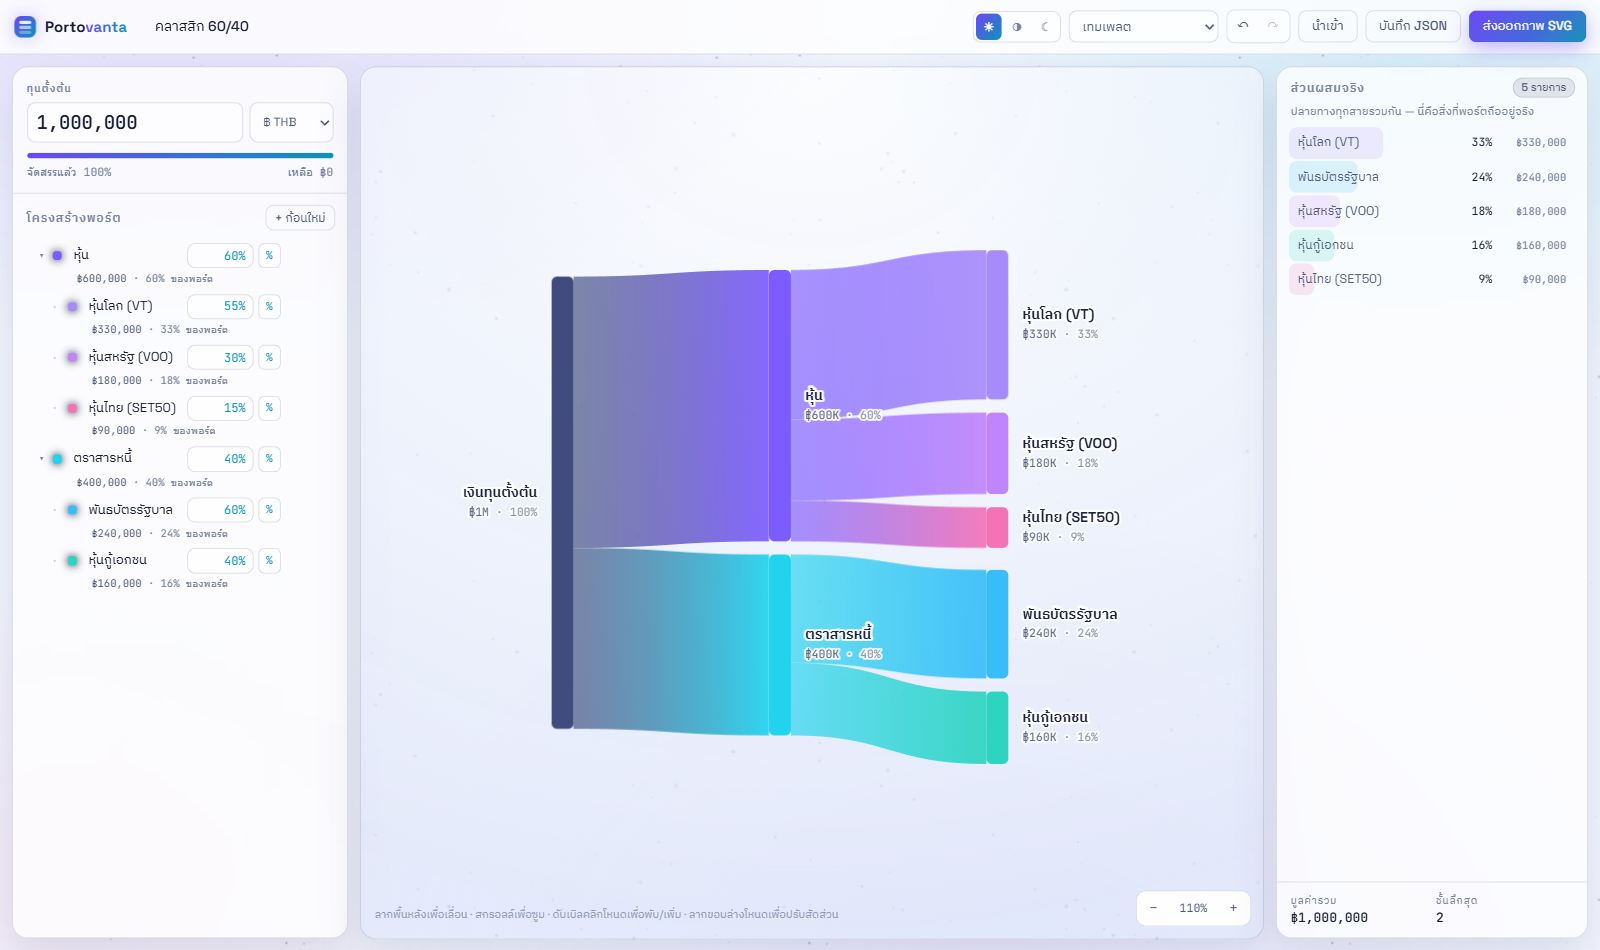
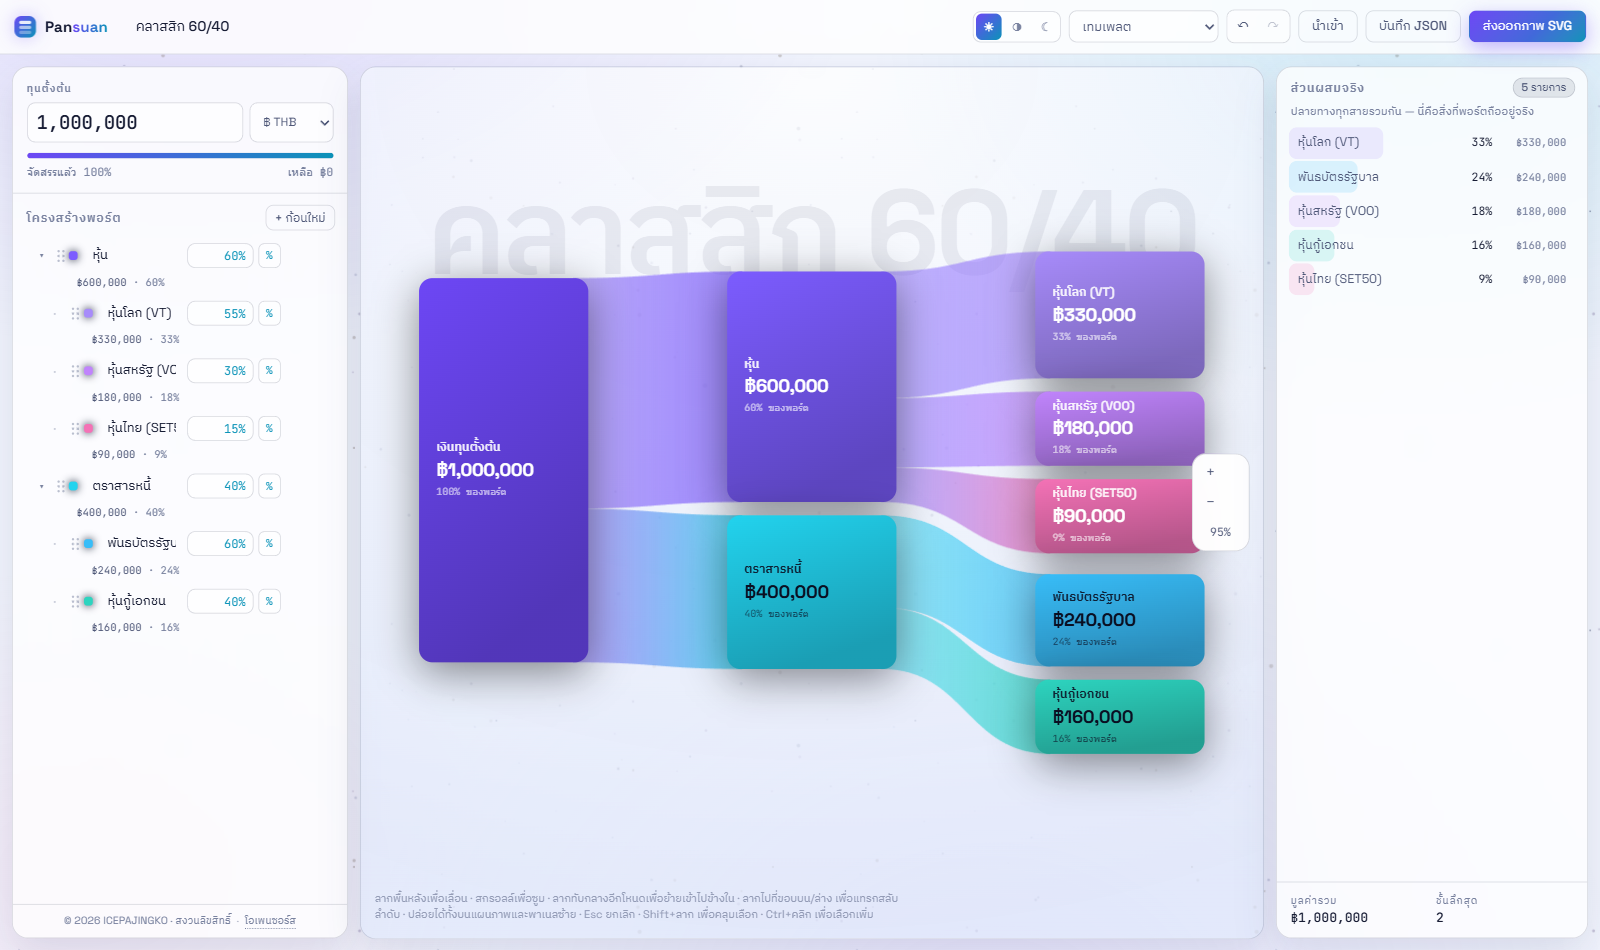
Rename the app from Portovanta to Pansuan
Pansuan is ปันส่วน — Thai for "allocation", which is what the app does. It is
shorter, reads the same in Thai and in Latin script, and says what the tool is
for rather than hinting at it.

The rename reaches everything the old name touched: the wordmark, the page
title, the package name, the licence, the third-party notices and the exported
filename, which is now <portfolio>.pansuan.json. Files exported under the old
name still import fine, since the reader looks at the JSON rather than the
extension. The README screenshots were retaken.

The localStorage keys move with it. A migration that copied the old keys across
was written and verified first, then removed once the only browser holding the
old data had been carried over — the owner's portfolio is also backed up as a
JSON export, so nothing depends on that code any more.

diff --git a/index.html b/index.html
@@ -4,7 +4,7 @@
     <meta charset="UTF-8" />
     <meta name="viewport" content="width=device-width, initial-scale=1.0, maximum-scale=1" />
     <meta name="theme-color" content="#04050c" />
-    <meta name="description" content="Portovanta — จัดพอร์ตการลงทุนด้วย Sankey Diagram" />
+    <meta name="description" content="Pansuan (ปันส่วน) — จัดพอร์ตการลงทุนด้วย Sankey Diagram" />
     <meta name="author" content="ICEPAJINGKO" />
     <meta name="copyright" content="© 2026 ICEPAJINGKO. All rights reserved." />
     <link rel="icon" href="/favicon.svg" type="image/svg+xml" />
@@ -14,7 +14,7 @@
       href="https://fonts.googleapis.com/css2?family=Space+Grotesk:wght@400..700&family=IBM+Plex+Sans+Thai:wght@400;600&family=JetBrains+Mono:wght@400..500&display=swap"
       rel="stylesheet"
     />
-    <title>Portovanta · Portfolio Flow</title>
+    <title>Pansuan · ปันส่วน</title>
     <script>
       (function () {
         var root = document.documentElement
@@ -22,7 +22,7 @@
         // Theme before first paint, so there is no flash of the wrong tone.
         var saved = null
         try {
-          saved = localStorage.getItem('portovanta:theme')
+          saved = localStorage.getItem('pansuan:theme')
         } catch (e) {}
         if (saved !== 'light' && saved !== 'dusk' && saved !== 'night') {
           saved = matchMedia('(prefers-color-scheme: light)').matches ? 'light' : 'dusk'

diff --git a/src/model/storage.ts b/src/model/storage.ts
@@ -4,7 +4,7 @@ import { emptyPortfolio, ROOT_ID } from './portfolio'
 import { PALETTE, ROOT_COLOR } from '../lib/palette'
 import { uid } from '../lib/id'
 
-const KEY = 'portovanta:portfolio:v1'
+const KEY = 'pansuan:portfolio:v1'
 
 export function loadPortfolio(): Portfolio | null {
   try {
@@ -96,13 +96,13 @@ function slug(name: string): string {
       .trim()
       .replace(/[\\/:*?"<>|]+/g, '')
       .replace(/\s+/g, '-')
-      .slice(0, 48) || 'portovanta'
+      .slice(0, 48) || 'pansuan'
   )
 }
 
 export function exportJson(portfolio: Portfolio): void {
   const payload = JSON.stringify({ ...portfolio, exportedAt: new Date().toISOString() }, null, 2)
-  download(new Blob([payload], { type: 'application/json' }), `${slug(portfolio.name)}.portovanta.json`)
+  download(new Blob([payload], { type: 'application/json' }), `${slug(portfolio.name)}.pansuan.json`)
 }
 
 const EXPORT_PAD = 28

diff --git a/src/components/TopBar.tsx b/src/components/TopBar.tsx
@@ -31,7 +31,7 @@ export function TopBar({ portfolio, api, svgRef, onSelect, theme }: Props) {
       onSelect(null)
       flash(`นำเข้า “${next.name}” แล้ว`)
     } catch {
-      flash('ไฟล์ไม่ถูกต้อง — ต้องเป็น JSON ที่ export จาก Portovanta')
+      flash('ไฟล์ไม่ถูกต้อง — ต้องเป็น JSON ที่ export จาก Pansuan')
     }
   }
 
@@ -40,7 +40,7 @@ export function TopBar({ portfolio, api, svgRef, onSelect, theme }: Props) {
       <div className="brand">
         <span className="brand-mark" aria-hidden="true" />
         <span className="brand-name">
-          Porto<em>vanta</em>
+          Pan<em>suan</em>
         </span>
       </div>
 

diff --git a/src/lib/legal.ts b/src/lib/legal.ts
@@ -1,7 +1,7 @@
 /**
  * Ownership of the app, in one place.
  *
- * The notice covers Portovanta itself — not the libraries it is built on.
+ * The notice covers Pansuan itself — not the libraries it is built on.
  * React, React-DOM and scheduler ship inside the bundle under the MIT licence
  * and keep their own copyright; a notice here neither claims nor cancels those.
  */

diff --git a/src/state/useTheme.ts b/src/state/useTheme.ts
@@ -2,7 +2,7 @@ import { useCallback, useEffect, useState } from 'react'
 
 export type Theme = 'light' | 'dusk' | 'night'
 
-const KEY = 'portovanta:theme'
+const KEY = 'pansuan:theme'
 
 export const THEMES: { key: Theme; label: string; glyph: string }[] = [
   { key: 'light', label: 'สว่าง', glyph: '☀' },

diff --git a/README.md b/README.md
@@ -1,9 +1,9 @@
-# Portovanta
+# Pansuan · ปันส่วน
 
 จัดพอร์ตการลงทุนด้วย **Sankey Diagram** — เริ่มจากทุนตั้งต้นก้อนเดียว แล้วแตกสายออกไปเป็นสินทรัพย์ย่อยได้ไม่จำกัดชั้น
 กรอกได้ทั้ง **เปอร์เซ็นต์** และ **จำนวนเงิน** ในช่องเดียวกัน แล้วแผนภาพจะไหลตามทันทีแบบ 60 fps
 
-![Portovanta](docs/preview.png)
+![Pansuan](docs/preview.png)
 
 <sub>โทน **มืดสว่าง** — ค่าเริ่มต้นเมื่อระบบตั้งเป็นดาร์ก</sub>
 
